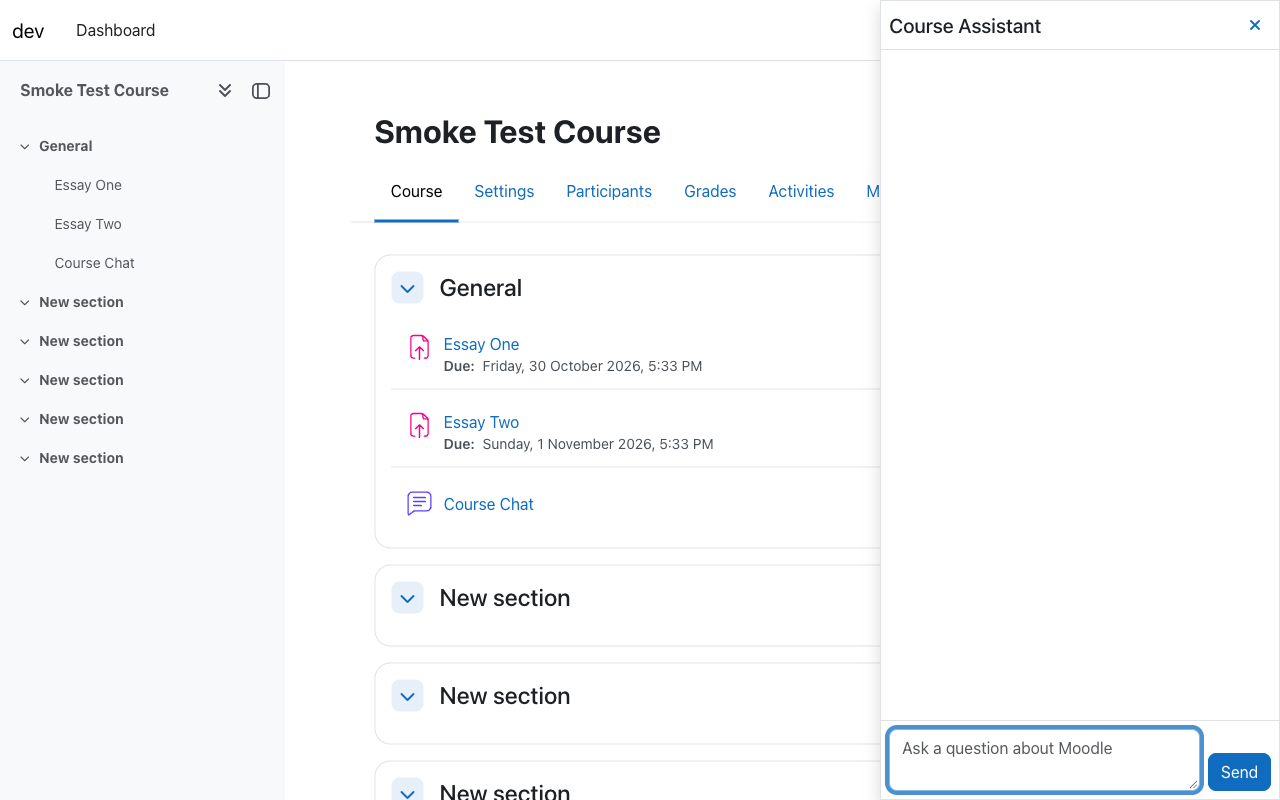
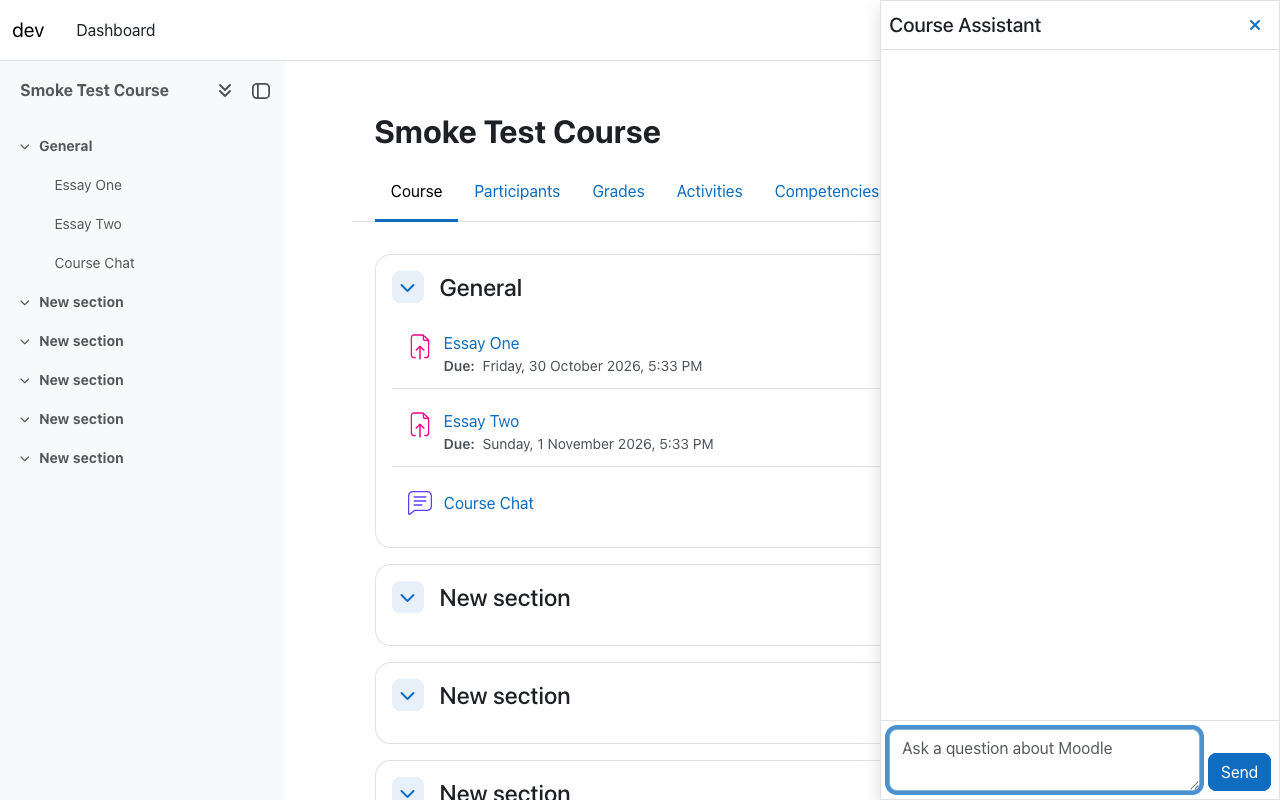
docs: retake Marketplace screenshots without the debug footer

diff --git a/docs/marketplace.md b/docs/marketplace.md
@@ -58,12 +58,12 @@ In `docs/screenshots/`:
 2. `02-grade.png`: a student asking for their grade.
 3. `03-forum-summary.png`: a forum summary.
 
-These were taken on a development site, with the performance footer showing; retake them with debugging display off and a larger model before submitting. Add a teacher screenshot (for example "Who has not submitted Essay One?") once the answer text is right with the model you use.
+No teacher screenshot yet: with qwen2.5:3b-instruct the sentence above the not-submitted list was wrong in three of three tries (the list itself was right). Add one once the answer text is right with the model you use.
 
 ## Before submitting
 
 1. Done: public repository at https://github.com/SaadRahman01/moodle-aiplacement_assistant with Issues on.
-2. Check that the GitHub Actions CI run is green.
+2. Done: GitHub Actions CI is green on both Moodle 4.5 and 5.2.
 3. Build the ZIP with `.github/scripts/build-zip.sh`.
 4. Sign in at marketplace.moodle.com with your Moodle.org email, choose "Submit a plugin", pick Free, upload the ZIP, then fill in the fields and screenshots above.
 5. Read the Marketplace "Plugin submission guidelines" (sign-in needed) for any rules not covered here.
